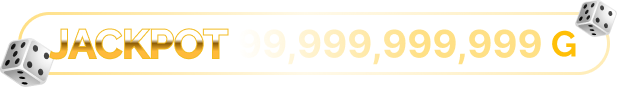
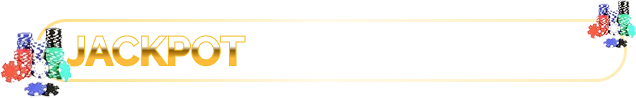
update 13/01/2025

diff --git a/src/components/UserPanel/InfoUser.tsx b/src/components/UserPanel/InfoUser.tsx
@@ -80,7 +80,8 @@ const InfoUser: React.FC<InfoUserProps> = ({ onBack }) => {
                             <div className="absolute top-0 right-0 p-1 h-full">
                                 <button
                                     onClick={handleMaxDeposit}
-                                    className="text-black bg-gradient border border-yellow border-yellow px-8 h-full rounded-full font-semibold transition-all hover:opacity-80">
+                                    disabled
+                                    className="text-black bg-white border border-white px-8 h-full rounded-full font-semibold transition-all opacity-70">
                                     최대
                                 </button>
                             </div>

diff --git a/src/components/GamePanel/JoinGame.tsx b/src/components/GamePanel/JoinGame.tsx
@@ -24,8 +24,9 @@ const TableList: React.FC = () => {
                     <h2 className="text-44 font-bold text-white font-sans">
                         JOIN GAME
                     </h2>
-                    <div className="item">
+                    <div className="item relative">
                         <img src="/images/jackpot.png" alt=""/>
+                        <span className="absolute top-0 left-0 w-full h-full flex items-center justify-center font-bold text-38 pl-[32%] text-jackpot pt-1">99,999,999,999 G</span>
                     </div>
                     <button
                         onClick={() => setShowTableInfo(true)}

diff --git a/src/styles/style.css b/src/styles/style.css
@@ -140,4 +140,25 @@ body input:focus {
   background-color: rgba(255, 255, 255, 0.5);
 }
 
+.text-jackpot {
+  background: linear-gradient(45deg, #ffffff, #ffffff, #FFBF07, #ffffff, #FFE086);
+  background-size: 260% 260%;
+  -webkit-background-clip: text;
+  -webkit-text-fill-color: transparent;
+  background-clip: text;
+  animation: gradientFlow 3s ease infinite, scaleHeartbeat 1s ease-in-out infinite;
+}
+
+@keyframes gradientFlow {
+  0% {
+    background-position: 0% 50%;
+  }
+  50% {
+    background-position: 100% 50%;
+  }
+  100% {
+    background-position: 0% 50%;
+  }
+}
+
 /*# sourceMappingURL=style.css.map */

diff --git a/src/styles/style.scss b/src/styles/style.scss
@@ -148,3 +148,24 @@ body {
     background-color: rgb(255 255 255/50%);
   }
 }
+
+.text-jackpot {
+  background: linear-gradient(45deg, #ffffff, #ffffff, #FFBF07, #ffffff, #FFE086 );
+  background-size: 260% 260%;
+  -webkit-background-clip: text;
+  -webkit-text-fill-color: transparent;
+  background-clip: text;
+  animation: gradientFlow 3s ease infinite, scaleHeartbeat 1s ease-in-out infinite;
+}
+
+@keyframes gradientFlow {
+  0% {
+    background-position: 0% 50%;
+  }
+  50% {
+    background-position: 100% 50%;
+  }
+  100% {
+    background-position: 0% 50%;
+  }
+}
